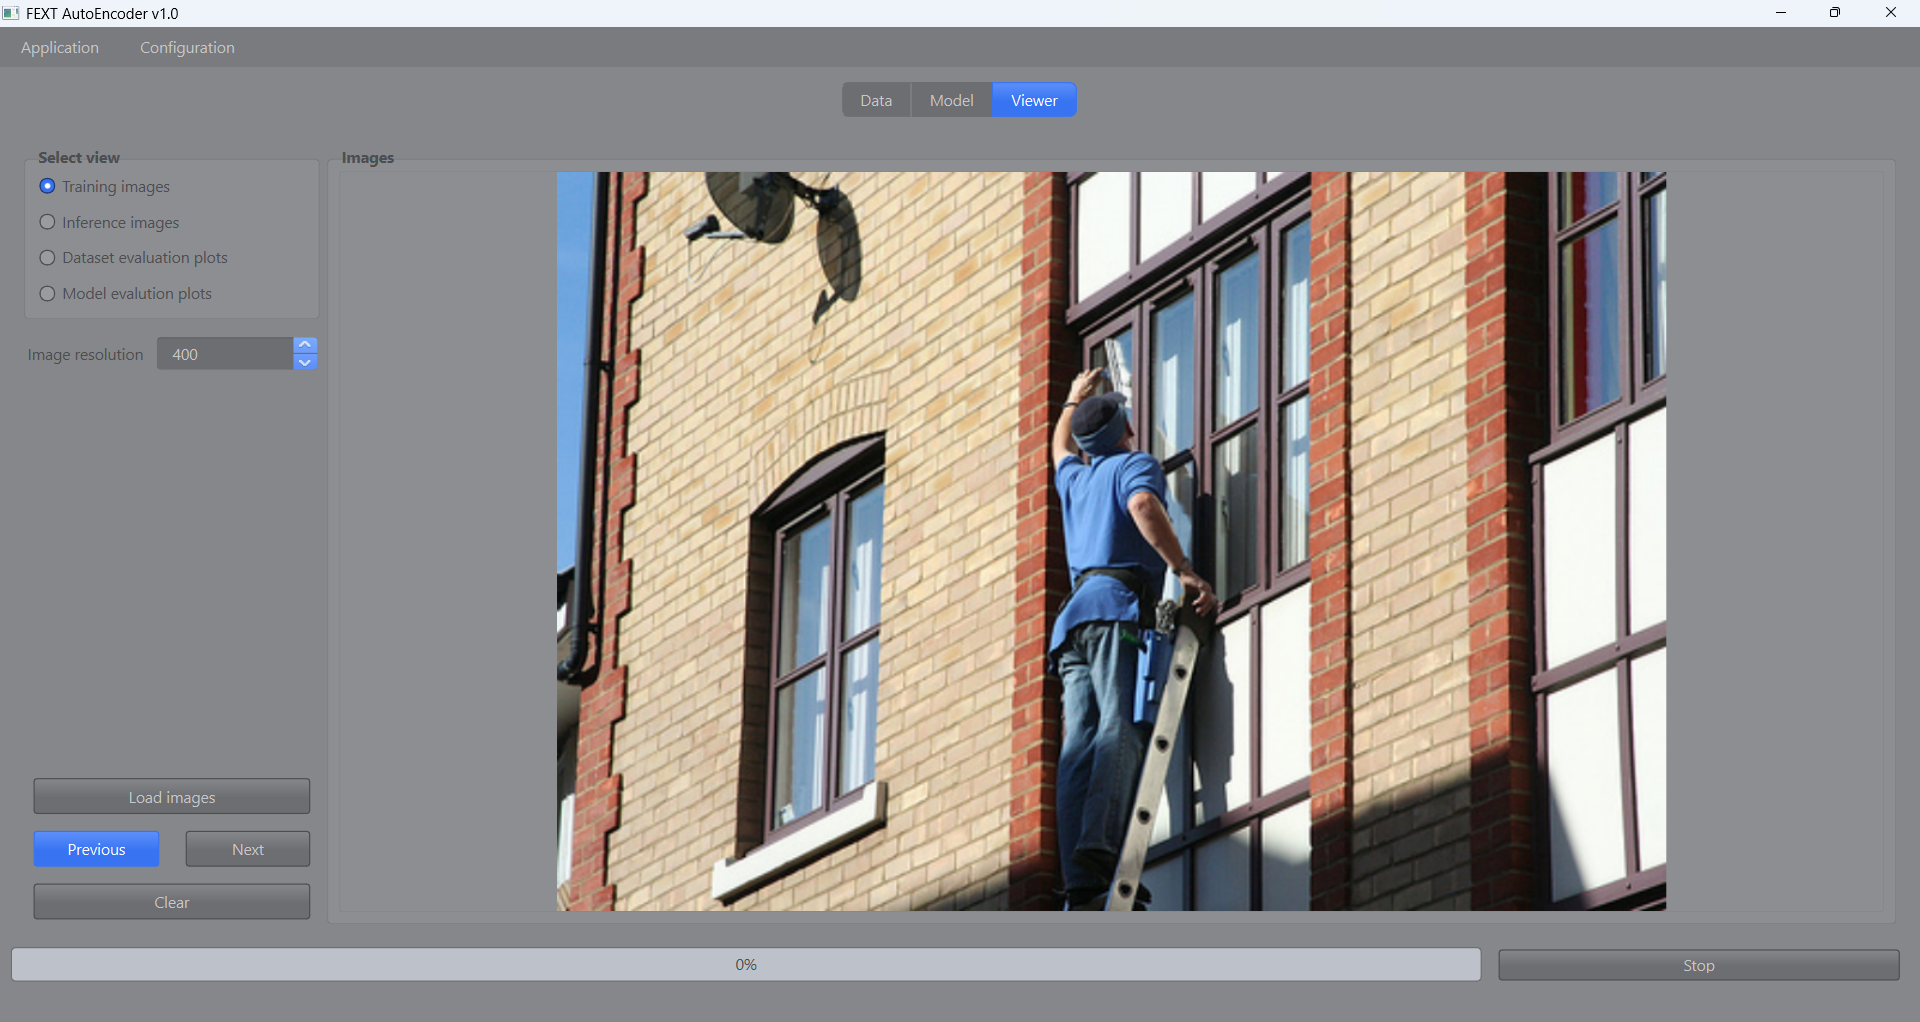
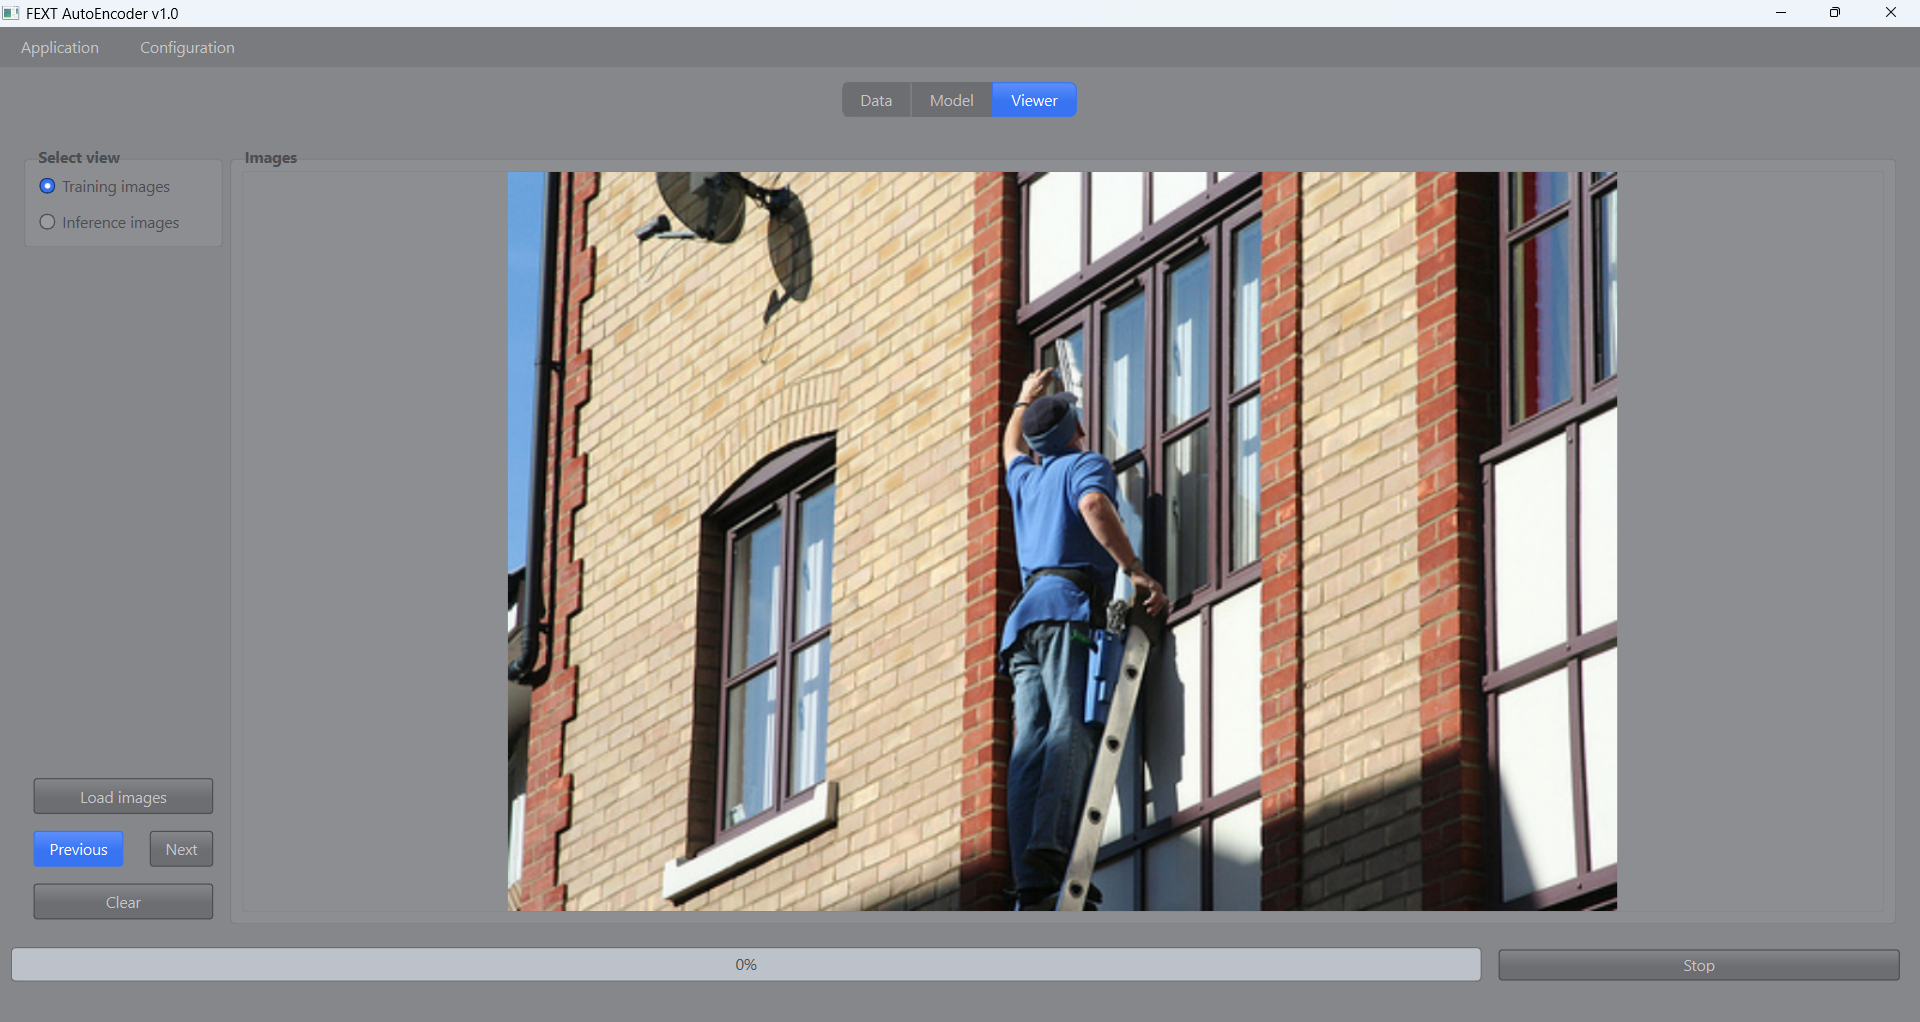
updated figures

diff --git a/FEXT/app/interface/window.py b/FEXT/app/interface/window.py
@@ -119,7 +119,6 @@ class MainWindow:
             (QPushButton,'clearImg','clear_images'),
             (QRadioButton,'viewInferenceImages','inference_img_view'),
             (QRadioButton,'viewTrainImages','train_img_view'),
-            (QSpinBox, "imageDPI", 'image_resolution'),            
             ])
         
         self._connect_signals([ 
@@ -225,8 +224,6 @@ class MainWindow:
             # 3. model evaluation and inference tab page            
             ('inference_batch_size', 'valueChanged', 'inference_batch_size'),
             ('num_evaluation_images', 'valueChanged', 'num_evaluation_images'), 
-            # 4. viewer tab page
-            ('image_resolution', 'valueChanged', 'image_resolution')            
             ]
 
         self.data_metrics = [('image_statistics', self.image_statistics_metric),                             
